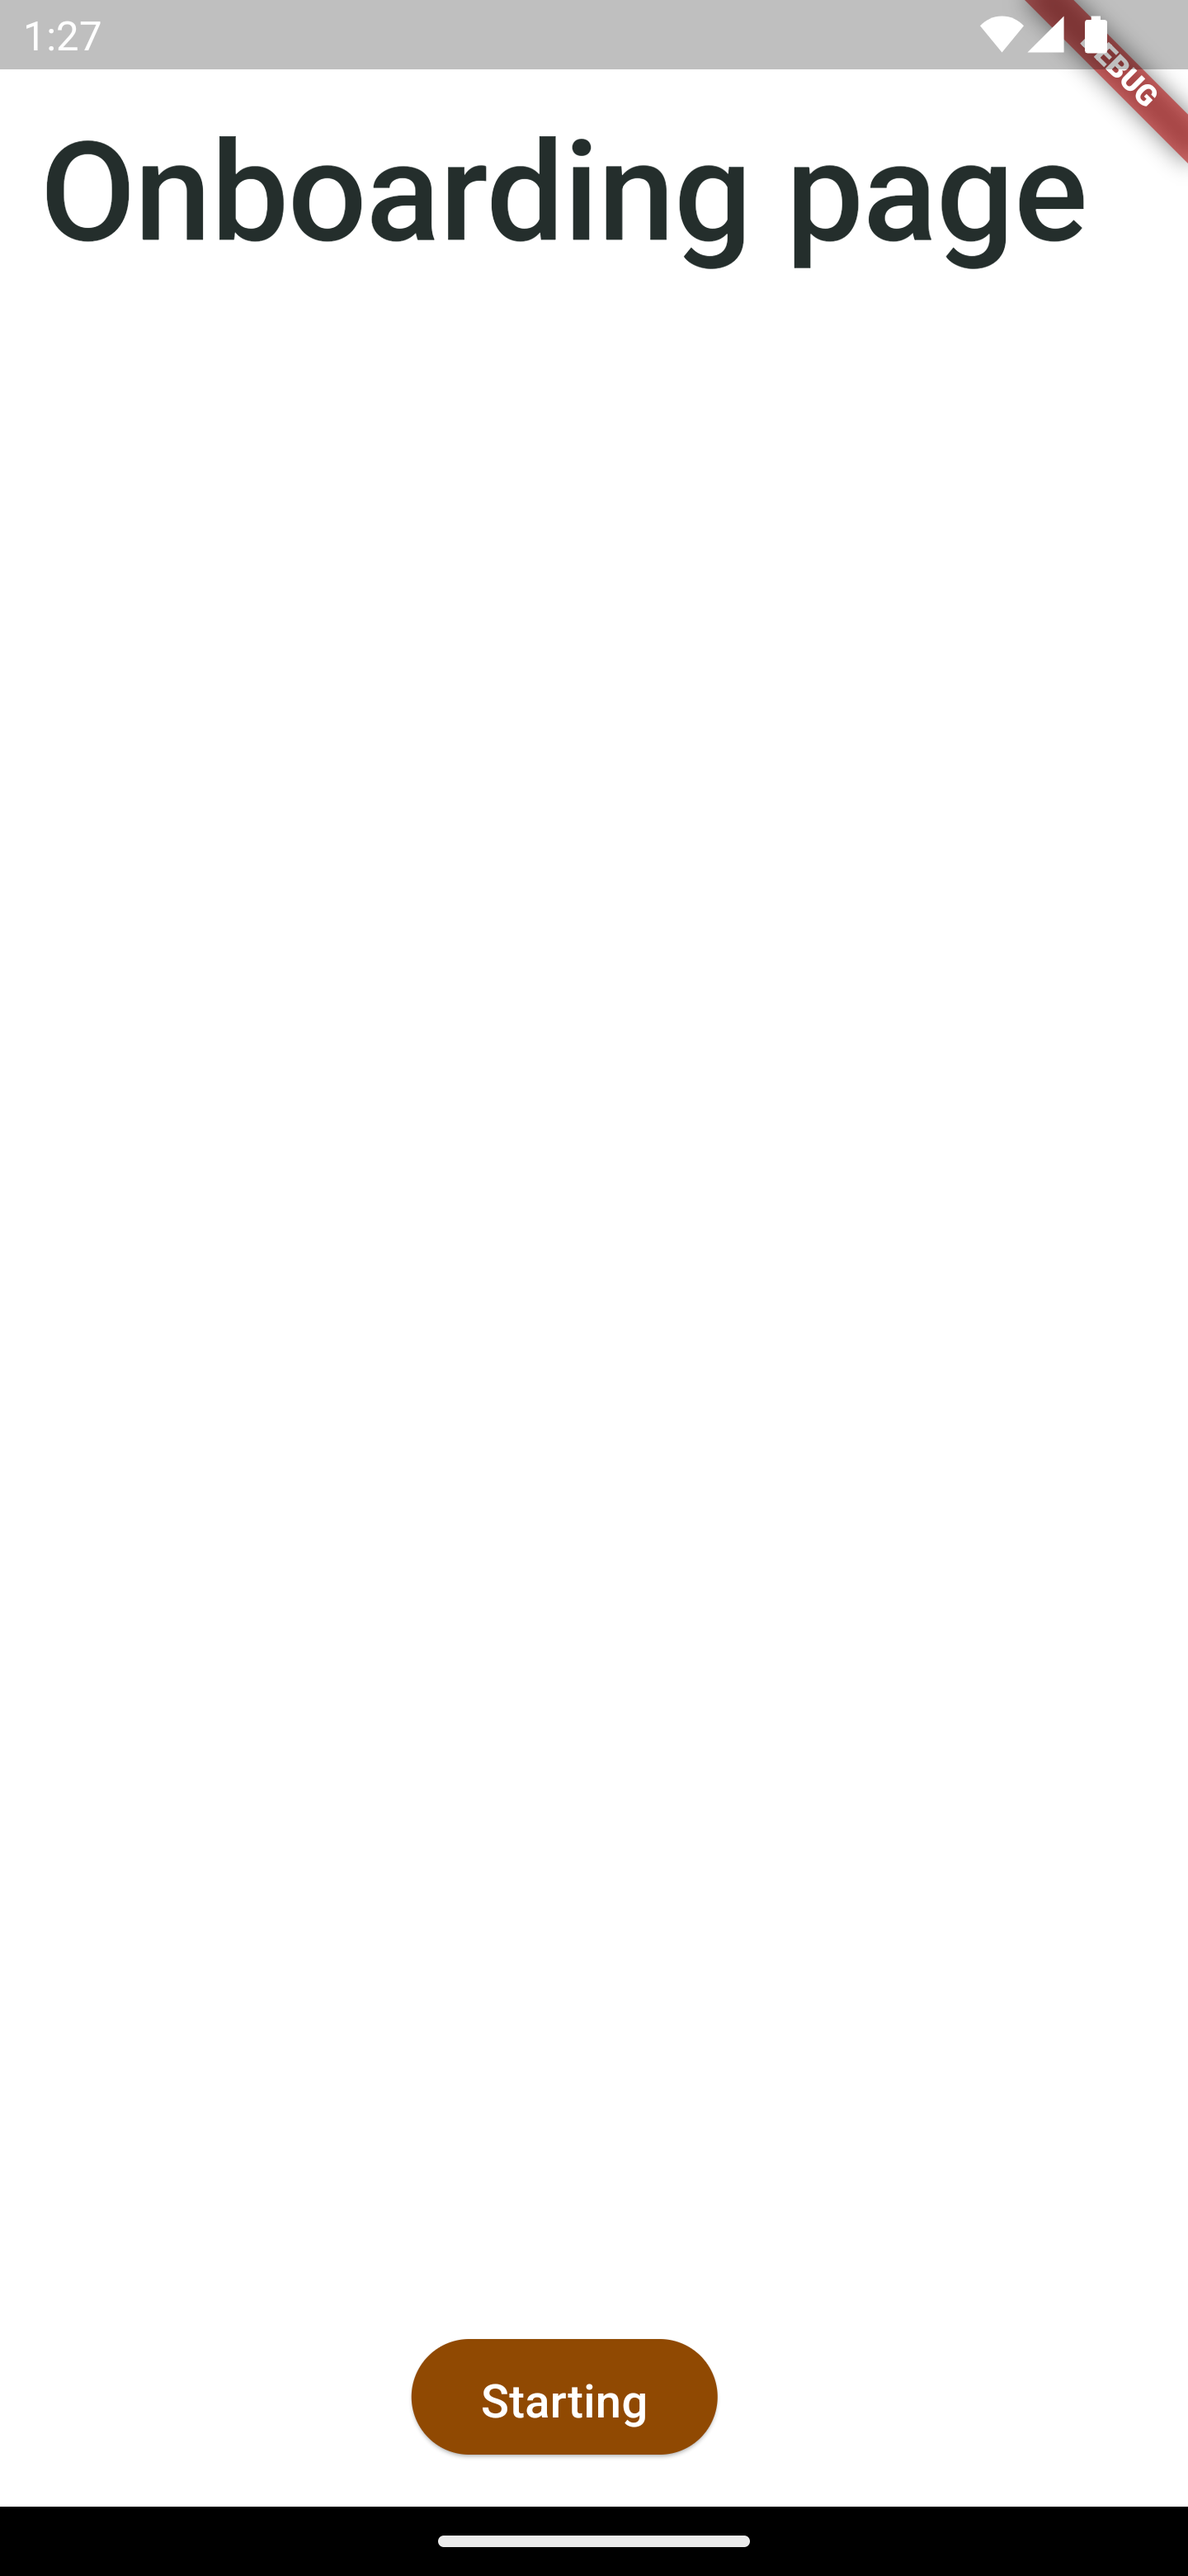
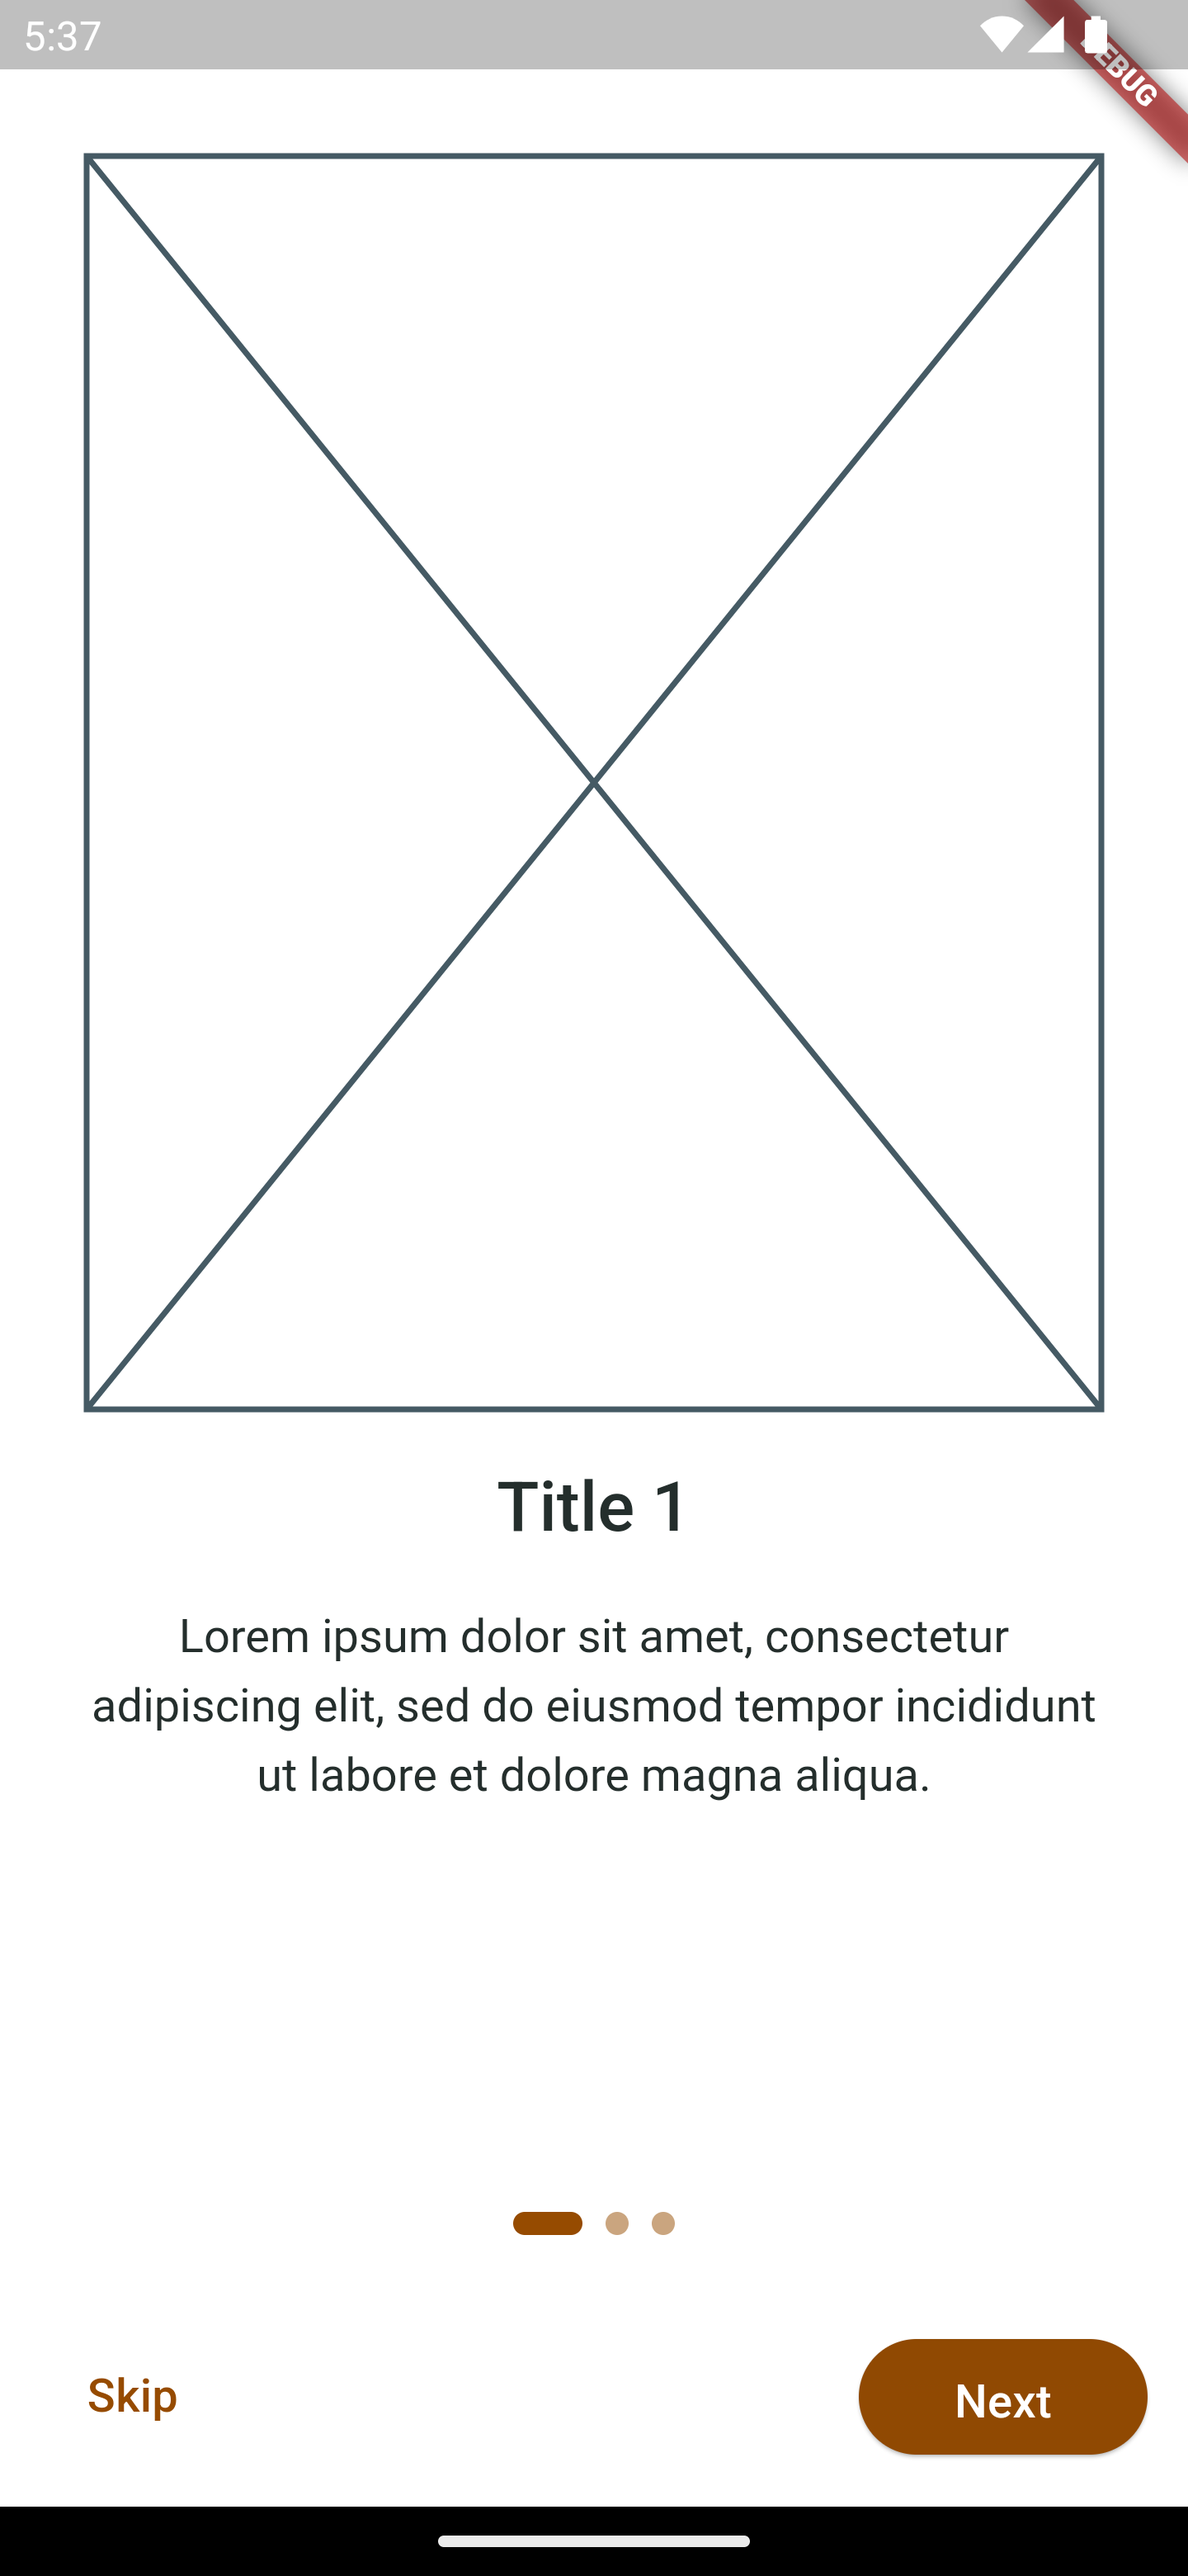
feat(Onboarding): create UI (#12)
* Create onboarding UI

* Update README

diff --git a/lib/src/pages/onboarding/onboarding_page.dart b/lib/src/pages/onboarding/onboarding_page.dart
@@ -1,7 +1,6 @@
 import 'package:find_coffee_app/generated/l10n.dart';
 import 'package:find_coffee_app/src/common/di/modules_config.dart';
 import 'package:find_coffee_app/src/config/configuration.dart';
-import 'package:flutter/cupertino.dart';
 import 'package:flutter/material.dart';
 import 'package:ui_theme/ui_theme.dart';
 
@@ -13,28 +12,194 @@ class OnboardingPage extends StatefulWidget {
 }
 
 class _OnboardingPageState extends State<OnboardingPage> {
+  final pageController = PageController();
+  final selectedIndex = ValueNotifier(0);
+
+  final illustrations = ["a", "b", "c"];
+  final titles = [
+    "Title 1",
+    "Title 2",
+    "Title 3",
+  ];
+  final descriptions = [
+    "Lorem ipsum dolor sit amet, consectetur adipiscing elit, sed do eiusmod tempor incididunt ut labore et dolore magna aliqua.",
+    "Lorem ipsum dolor sit amet, consectetur adipiscing elit, sed do eiusmod tempor incididunt ut labore et dolore magna aliqua.",
+    "Lorem ipsum dolor sit amet, consectetur adipiscing elit, sed do eiusmod tempor incididunt ut labore et dolore magna aliqua."
+  ];
+
   @override
   Widget build(BuildContext context) {
-    final i18n = I18n();
-
     return CustomScaffold(
       child: SafeArea(
         child: Padding(
           padding: const EdgeInsets.all(14),
           child: Column(
-            mainAxisAlignment: MainAxisAlignment.spaceBetween,
-            crossAxisAlignment: CrossAxisAlignment.center,
             children: [
-              const CustomText.display2(text: "Onboarding page"),
-              const SizedBox(height: 20),
-              CustomButton(
-                text: i18n.start,
-                onPressed: () => RouterModule.router().replaceTo(HomeRoute()),
+              Expanded(
+                child: PageView.builder(
+                  controller: pageController,
+                  itemCount: illustrations.length,
+                  itemBuilder: (context, index) {
+                    return _OnboardingItem(
+                      illustration: illustrations[index],
+                      title: titles[index],
+                      description: descriptions[index],
+                    );
+                  },
+                  onPageChanged: (value) {
+                    selectedIndex.value = value;
+                  },
+                ),
               ),
+              ValueListenableBuilder(
+                valueListenable: selectedIndex,
+                builder: (context, index, child) {
+                  return _OnboardingDots(
+                    position: index,
+                    size: illustrations.length,
+                  );
+                },
+              ),
+              ValueListenableBuilder(
+                valueListenable: selectedIndex,
+                builder: (context, index, child) {
+                  return _OnboardingActions(
+                    position: index,
+                    length: illustrations.length,
+                    onSkipAction: () {
+                      pageController.jumpToPage(illustrations.length - 1);
+                    },
+                    onNextAction: () {
+                      final nextPage = selectedIndex.value + 1;
+
+                      pageController.animateToPage(
+                        nextPage,
+                        duration: const Duration(milliseconds: 300),
+                        curve: Curves.ease,
+                      );
+                    },
+                    onStartedAction: () {
+                      RouterModule.router().replaceTo(HomeRoute());
+                    },
+                  );
+                },
+              )
             ],
           ),
         ),
       ),
+    );
+  }
+}
+
+class _OnboardingItem extends StatelessWidget {
+  const _OnboardingItem({
+    required this.illustration,
+    required this.title,
+    required this.description,
+  });
+
+  final String illustration;
+  final String title;
+  final String description;
+
+  @override
+  Widget build(BuildContext context) {
+    final size = MediaQuery.of(context).size;
+
+    return Padding(
+      padding: const EdgeInsets.all(16),
+      child: Column(
+        children: [
+          SizedBox(
+            height: size.height * 0.5,
+            width: size.width,
+            child: const Placeholder(),
+          ),
+          const SizedBox(height: 16),
+          CustomText.headline3(text: title),
+          const SizedBox(height: 16),
+          CustomText.body2(text: description),
+        ],
+      ),
+    );
+  }
+}
+
+class _OnboardingDots extends StatelessWidget {
+  const _OnboardingDots({
+    required this.position,
+    required this.size,
+  });
+
+  final int position;
+  final int size;
+
+  @override
+  Widget build(BuildContext context) {
+    return Padding(
+      padding: const EdgeInsets.only(top: 16, bottom: 32),
+      child: Wrap(
+        spacing: 8,
+        children: List.generate(
+          size,
+          (indexIndicator) {
+            return AnimatedContainer(
+              duration: const Duration(milliseconds: 300),
+              height: 8,
+              width: indexIndicator == position ? 24 : 8,
+              decoration: BoxDecoration(
+                borderRadius: BorderRadius.circular(16),
+                color: indexIndicator == position
+                    ? CustomColors.brown
+                    : CustomColors.brown.withOpacity(0.5),
+              ),
+            );
+          },
+        ),
+      ),
+    );
+  }
+}
+
+class _OnboardingActions extends StatelessWidget {
+  const _OnboardingActions({
+    required this.position,
+    required this.length,
+    required this.onSkipAction,
+    required this.onNextAction,
+    required this.onStartedAction,
+  });
+
+  final int position;
+  final int length;
+
+  final void Function() onSkipAction;
+  final void Function() onNextAction;
+  final void Function() onStartedAction;
+
+  @override
+  Widget build(BuildContext context) {
+    final size = MediaQuery.of(context).size;
+    final i18n = I18n();
+
+    if (position == length - 1) {
+      return SizedBox(
+        width: size.width,
+        height: 48,
+        child: CustomButtonFilled(
+          text: i18n.getStarted,
+          onPressed: onStartedAction,
+        ),
+      );
+    }
+
+    return Row(
+      mainAxisAlignment: MainAxisAlignment.spaceBetween,
+      children: [
+        CustomButton(onPressed: onSkipAction, text: i18n.skip),
+        CustomButtonFilled(onPressed: onNextAction, text: i18n.next)
+      ],
     );
   }
 }

diff --git a/packages/ui_theme/lib/src/widgets/button.dart b/packages/ui_theme/lib/src/widgets/button.dart
@@ -1,10 +1,10 @@
 import 'package:flutter/cupertino.dart';
 import 'package:flutter/material.dart';
-import 'package:ui_theme/src/widgets/platform/platform_widget.dart';
-import 'package:ui_theme/src/widgets/text.dart';
+import 'package:ui_theme/ui_theme.dart';
 
-class CustomButton extends PlatformWidget<CupertinoButton, ElevatedButton> {
-  const CustomButton({
+class CustomButtonFilled
+    extends PlatformWidget<CupertinoButton, ElevatedButton> {
+  const CustomButtonFilled({
     super.key,
     required this.text,
     this.onPressed,
@@ -26,6 +26,35 @@ class CustomButton extends PlatformWidget<CupertinoButton, ElevatedButton> {
     return CupertinoButton.filled(
       onPressed: onPressed,
       child: CustomText.title3(text: text),
+    );
+  }
+}
+
+class CustomButton extends PlatformWidget<CupertinoButton, TextButton> {
+  const CustomButton({super.key, required this.text, required this.onPressed});
+
+  final String text;
+  final void Function()? onPressed;
+
+  @override
+  TextButton buildAndroidWidget(BuildContext context) {
+    return TextButton(
+      onPressed: onPressed,
+      child: CustomText.title3(
+        text: text,
+        color: CustomColors.brown,
+      ),
+    );
+  }
+
+  @override
+  CupertinoButton buildIosWidget(BuildContext context) {
+    return CupertinoButton(
+      onPressed: onPressed,
+      child: CustomText.title3(
+        text: text,
+        color: CustomColors.brown,
+      ),
     );
   }
 }

diff --git a/packages/ui_theme/lib/src/widgets/text.dart b/packages/ui_theme/lib/src/widgets/text.dart
@@ -23,11 +23,25 @@ class CustomText extends StatelessWidget {
     this.color,
   });
 
+  const CustomText.headline3({
+    super.key,
+    required this.text,
+    this.style = CustomTypography.headline3,
+    this.color,
+  });
+
   const CustomText.title3({
     super.key,
     required this.text,
     this.style = CustomTypography.title3,
     this.color = CustomColors.white,
+  });
+
+  const CustomText.body2({
+    super.key,
+    required this.text,
+    this.style = CustomTypography.body2,
+    this.color,
   });
 
   final String text;
@@ -36,6 +50,10 @@ class CustomText extends StatelessWidget {
 
   @override
   Widget build(BuildContext context) {
-    return Text(text, style: style.copyWith(color: color));
+    return Text(
+      text,
+      style: style.copyWith(color: color),
+      textAlign: TextAlign.center,
+    );
   }
 }
